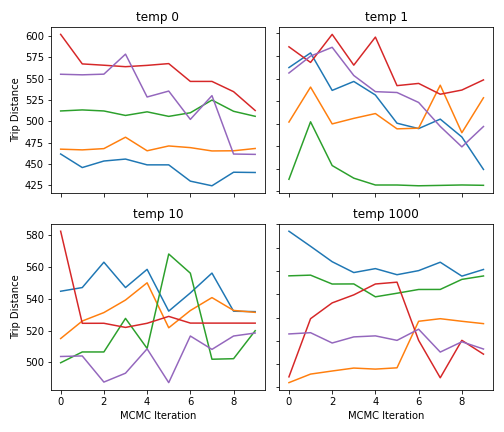
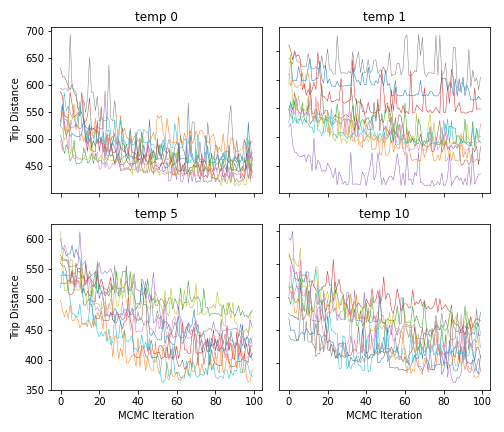
Part 2 finished

diff --git a/Miniproject_7/part_2.py b/Miniproject_7/part_2.py
@@ -8,6 +8,7 @@ def long_lat(park): # get longitude and latitude from park name
     return np.array(dat.loc[dat['Name'] == park]).squeeze()[1:3]
 def random_walk(dat): # select random walk across 30 parks
     route = np.array(dat['Name'])
+
     np.random.shuffle(route)
     start = route[0]
     route_loop = np.append(route, start)
@@ -36,33 +37,26 @@ def edge_distance(long_lat_1_array, long_lat_2_array): # get length of single tr
     long_2 = long_lat_2_array[0]
     lat_2 = long_lat_2_array[1]
     return np.sqrt((long_1 - long_2)**2 + (lat_1 - lat_2)**2)
-def total_distance(route): # get total distance of trip
-    """
-        Inputs:
-            -route: a list of park names in trip order
-        Output:
-            -distance traveled along entire route
-    """
-    dist_trav = 0
-    counter = 0
-    prev_parks = []
-    route_len = len(route)
-
-    for p in route:
-        if counter == 0:
-            prev_parks.append(p)
-            counter += 1
-        else:
-            if counter < (route_len - 1):
-                dist_trav += edge_distance(long_lat(p), long_lat(prev_parks[-1]))
-                counter += 1
-                prev_parks.append(p)
-            else:
-                dist_trav += edge_distance(long_lat(p), long_lat(prev_parks[0]))
-    return dist_trav
+def total_distance(route):
+    coords = np.array([long_lat(i) for i in route]).squeeze()
+    coord_roll = np.roll(coords, 1, axis=0)
+    return np.sum(np.sqrt(list(np.sum(((coords - coord_roll)**2), axis=1)))) # distance by VECTORS
 
 # define MCMC scheme
-def switch_two(route):
+# part 2b and 2c
+temps = [0, 1, 5, 10]
+trials = 10
+MAXITER = 100
+
+# define MCMC, switching two stops at every iteration
+def switch_any_two(route):
+    new = route[:]
+    ix1 = np.random.randint(len(new))
+    ix2 = np.random.randint(len(new))
+
+    new[ix1], new[ix2] = new[ix2], new[ix1]
+    return new
+def switch_adj_two(route):
     new = np.copy(route)
     ix1 = np.random.randint(len(new))
     ix2 = ix1 + np.random.choice([-1,1])
@@ -71,13 +65,14 @@ def switch_two(route):
 
     new[ix1], new[ix2] = new[ix2], new[ix1]
     return new
-def maxiter(dat, T, iter):
-    route = random_walk(dat)
-    best_route = np.copy(route)
+
+def iterate_adj(dat, T, iter):
+    route = np.ndarray.tolist(random_walk(dat))
+    best_route = route[:]
     route_distances = [] #store distances for plotting
 
     for i in range(iter):
-        new_route = switch_two(route)
+        new_route = switch_adj_two(route)
         old_route_dist = total_distance(route)
         new_route_dist = total_distance(new_route)
         route_distances.append(new_route_dist)
@@ -85,54 +80,12 @@ def maxiter(dat, T, iter):
 
         dist_change = new_route_dist - old_route_dist
         if (dist_change < 0) or (T > 0 and (np.random.uniform(0,1) < np.exp(-dist_change/T))):
-            route = np.copy(new_route)
+            route = new_route[:]
         if new_route_dist < dist_best:
-            best_route = np.copy(new_route)
-
-        # plot_trip(best_route)
+            best_route = new_route[:]
 
     return dist_best, route_distances
-
-# part 2b
-temps = [0, 1, 10, 1000]
-trials = 10
-MAXITER = 1000
-
-def plot_max_switch_adj(dat, MAXITER=MAXITER, trials=trials, temps=temps):
-    idxs = [(0,0), (0,1), (1,0), (1,1)]
-    temp_idx = list(zip(temps, idxs))
-
-    fig, axs = plt.subplots(2, 2)
-    for ind in temp_idx:
-        for i in range(trials):
-            best, dist_iters = maxiter(dat, ind[0], MAXITER)
-            axs[ind[1]].plot(range(MAXITER), dist_iters, )
-            axs[ind[1]].set_title('temp '+str(ind[0]))
-
-    for ax in axs.flat:
-        ax.set(xlabel='MCMC Iteration', ylabel='Trip Distance')
-
-    # Hide x labels and tick labels for top plots and y ticks for right plots.
-    for ax in axs.flat:
-        ax.label_outer()
-
-    fig.set_figheight(6)
-    fig.set_figwidth(7)
-    fig.tight_layout()
-    fig.show()
-    fig.savefig('/Users/micaholivas/Desktop/Coursework/Algorithms_CS_168/Miniproject_7/proj7_part2b')
-
-# part 2c
-
-# redefine MCMC, switching any two stops at every iteration
-def switch_any_two(route):
-    new = route[:]
-    ix1 = np.random.randint(len(new))
-    ix2 = np.random.randint(len(new))
-
-    new[ix1], new[ix2] = new[ix2], new[ix1]
-    return new
-def maxiter_anyswitch(dat, T, iter):
+def iterate_any(dat, T, iter):
     route = np.ndarray.tolist(random_walk(dat))
     best_route = route[:]
     route_distances = [] #store distances for plotting
@@ -152,15 +105,14 @@ def maxiter_anyswitch(dat, T, iter):
 
     return dist_best, route_distances
 
-def plot_max_switch_any(dat, MAXITER=MAXITER, trials=trials, temps=temps):
-
+def plot_switches_adj(dat, MAXITER=MAXITER, trials=trials, temps=temps):
     idxs = [(0,0), (0,1), (1,0), (1,1)]
     temp_idx = list(zip(temps, idxs))
 
     fig, axs = plt.subplots(2, 2)
     for ind in temp_idx:
         for i in range(trials):
-            best, dist_iters = maxiter_anyswitch(dat, ind[0], MAXITER)
+            best, dist_iters = iterate_adj(dat, ind[0], MAXITER)
             axs[ind[1]].plot(range(MAXITER), dist_iters, )
             axs[ind[1]].set_title('temp '+str(ind[0]))
 
@@ -174,8 +126,32 @@ def plot_max_switch_any(dat, MAXITER=MAXITER, trials=trials, temps=temps):
     fig.set_figheight(6)
     fig.set_figwidth(7)
     fig.tight_layout()
-    fig.show()
+    plt.rcParams['lines.linewidth'] = 0.5
+    fig.savefig('/Users/micaholivas/Desktop/Coursework/Algorithms_CS_168/Miniproject_7/proj7_part2b')
+
+def plot_switches_any(dat, MAXITER=MAXITER, trials=trials, temps=temps):
+    idxs = [(0,0), (0,1), (1,0), (1,1)]
+    temp_idx = list(zip(temps, idxs))
+
+    fig, axs = plt.subplots(2, 2)
+    for ind in temp_idx:
+        for i in range(trials):
+            best, dist_iters = iterate_any(dat, ind[0], MAXITER)
+            axs[ind[1]].plot(range(MAXITER), dist_iters, )
+            axs[ind[1]].set_title('temp '+str(ind[0]))
+
+    for ax in axs.flat:
+        ax.set(xlabel='MCMC Iteration', ylabel='Trip Distance')
+
+    # Hide x labels and tick labels for top plots and y ticks for right plots.
+    for ax in axs.flat:
+        ax.label_outer()
+
+    fig.set_figheight(6)
+    fig.set_figwidth(7)
+    fig.tight_layout()
+    plt.rcParams['lines.linewidth'] = 0.5
     fig.savefig('/Users/micaholivas/Desktop/Coursework/Algorithms_CS_168/Miniproject_7/proj7_part2c')
 
-plot_max_switch_adj(dat)
-plot_max_switch_any(dat)
+plot_switches_adj(dat)
+plot_switches_any(dat)

diff --git a/Miniproject_7/qwop.py b/Miniproject_7/qwop.py
@@ -220,6 +220,8 @@ def animate(j):
     head.center = (data[j][0][5], data[j][1][5])
     return patch,head
 
+np.exp(-0.01)
+
 anim = animation.FuncAnimation(fig, animate,
                                init_func=init,
                                frames=len(data),
